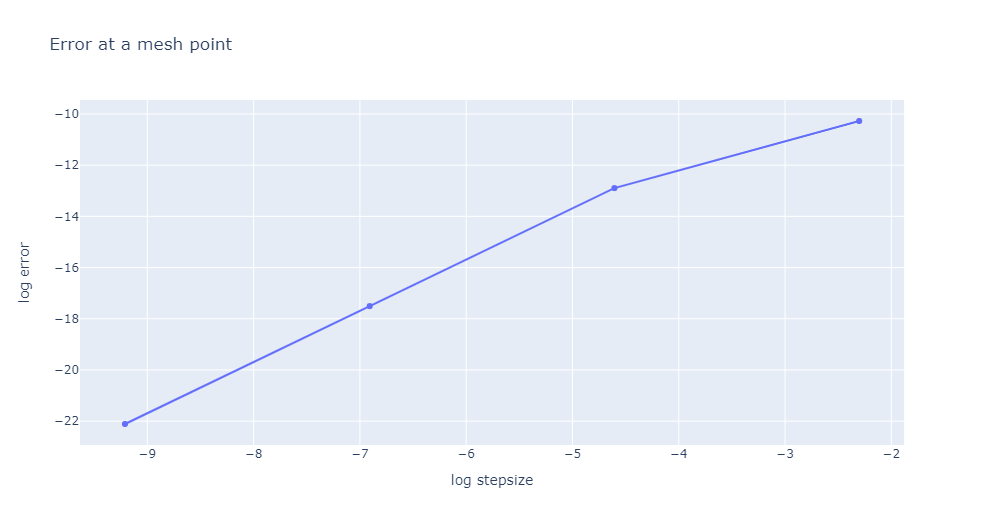
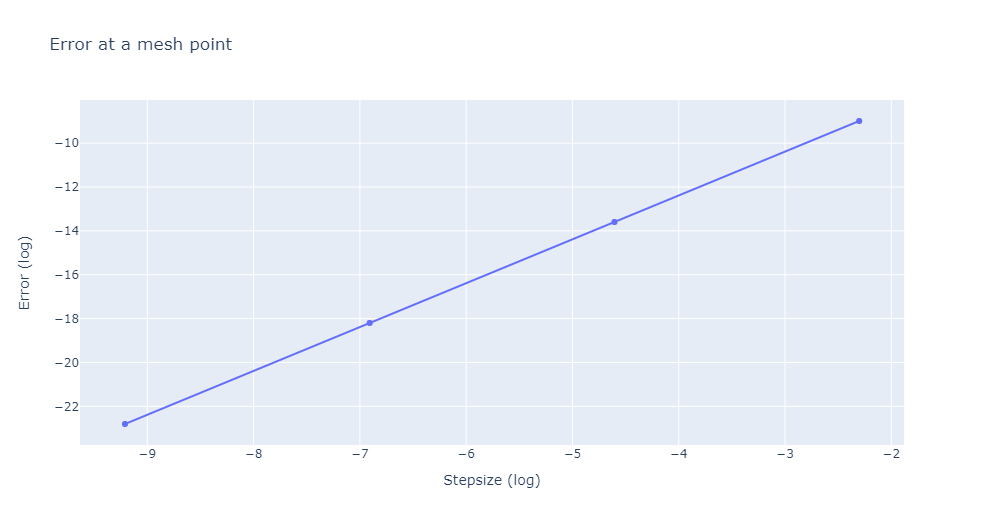
Change graphs with consistent axes labels

diff --git a/report/introduction.tex b/report/introduction.tex
@@ -2,6 +2,8 @@
 \chapter{Introduction}
 \label{chap:introduction}
 %---------------------------------------------------------------------------------
+\dave{Add in the summary of th entire report somewhere in the introduction as discussed 
+
 This is an assignment report for the course 'Numerical Solutions for Differential Equations \RN{1}'. The assignment task is to create a Python package that implements a few of the numerical methods taught in the course. The package 'numerical-solver' is then used to solve a problem that is relevant to my D.Phil. project. The software techniques I used for the assignment will also be very useful for my D.Phil. project.
 
 The package is hosted on Github, a good platform for version control and collaborations. Additionally, Jupyter notebooks were created to show how the package is used. The notebooks include codes using the package and their visual outputs, with explanatory texts. All examples and analysis of the numerical outputs will be presented in notebooks. They are available through links, indicated by underlined italic font, provided throughout the report. 

diff --git a/report/fitzhugh_nagumo.tex b/report/fitzhugh_nagumo.tex
@@ -56,7 +56,7 @@ A notebook (access from the link: \href{https://nbviewer.jupyter.org/github/Farm
 
 \begin{figure}
     \includegraphics[width=0.95\columnwidth]{FHN_Euler_explicit_error_behaviour}
-    \caption{Error at a mesh point for Euler's explicit method. The Fitzhugh-Nagumo model Eqs.~\eqref{eqn:FHN} is solved with Euler's explicit method at different step sizes. The error is the absolute difference between reference solution and numerical solution at $x=0.7$. The reference solution is taken at step size of $1^{-7}$. Note that $\log(1^{-8})\simeq-16.118$.}
+    \caption{Error at a mesh point for Euler's explicit method. The Fitzhugh-Nagumo model Eqs.~\eqref{eqn:FHN} is solved with Euler's explicit method at different step sizes. The error is the absolute difference between reference solution and numerical solution at $x=0.7$. The reference solution is taken at step size of $1^{-7}$. Note that $\log(1^{-7})\simeq-16.118$.}
     \label{fig:Euler_explicit_error}
  \end{figure}
 \begin{figure}

diff --git a/report/report.tex b/report/report.tex
@@ -45,6 +45,8 @@
     tabsize=2
 }
 
+\newcommand{\dave}[1]{\noindent{\color{purple} \bf{Dave: #1}}}
+
 \lstset{style=mystyle}
 
 \title{Numerical-solver Assignment Report\\[1ex]
